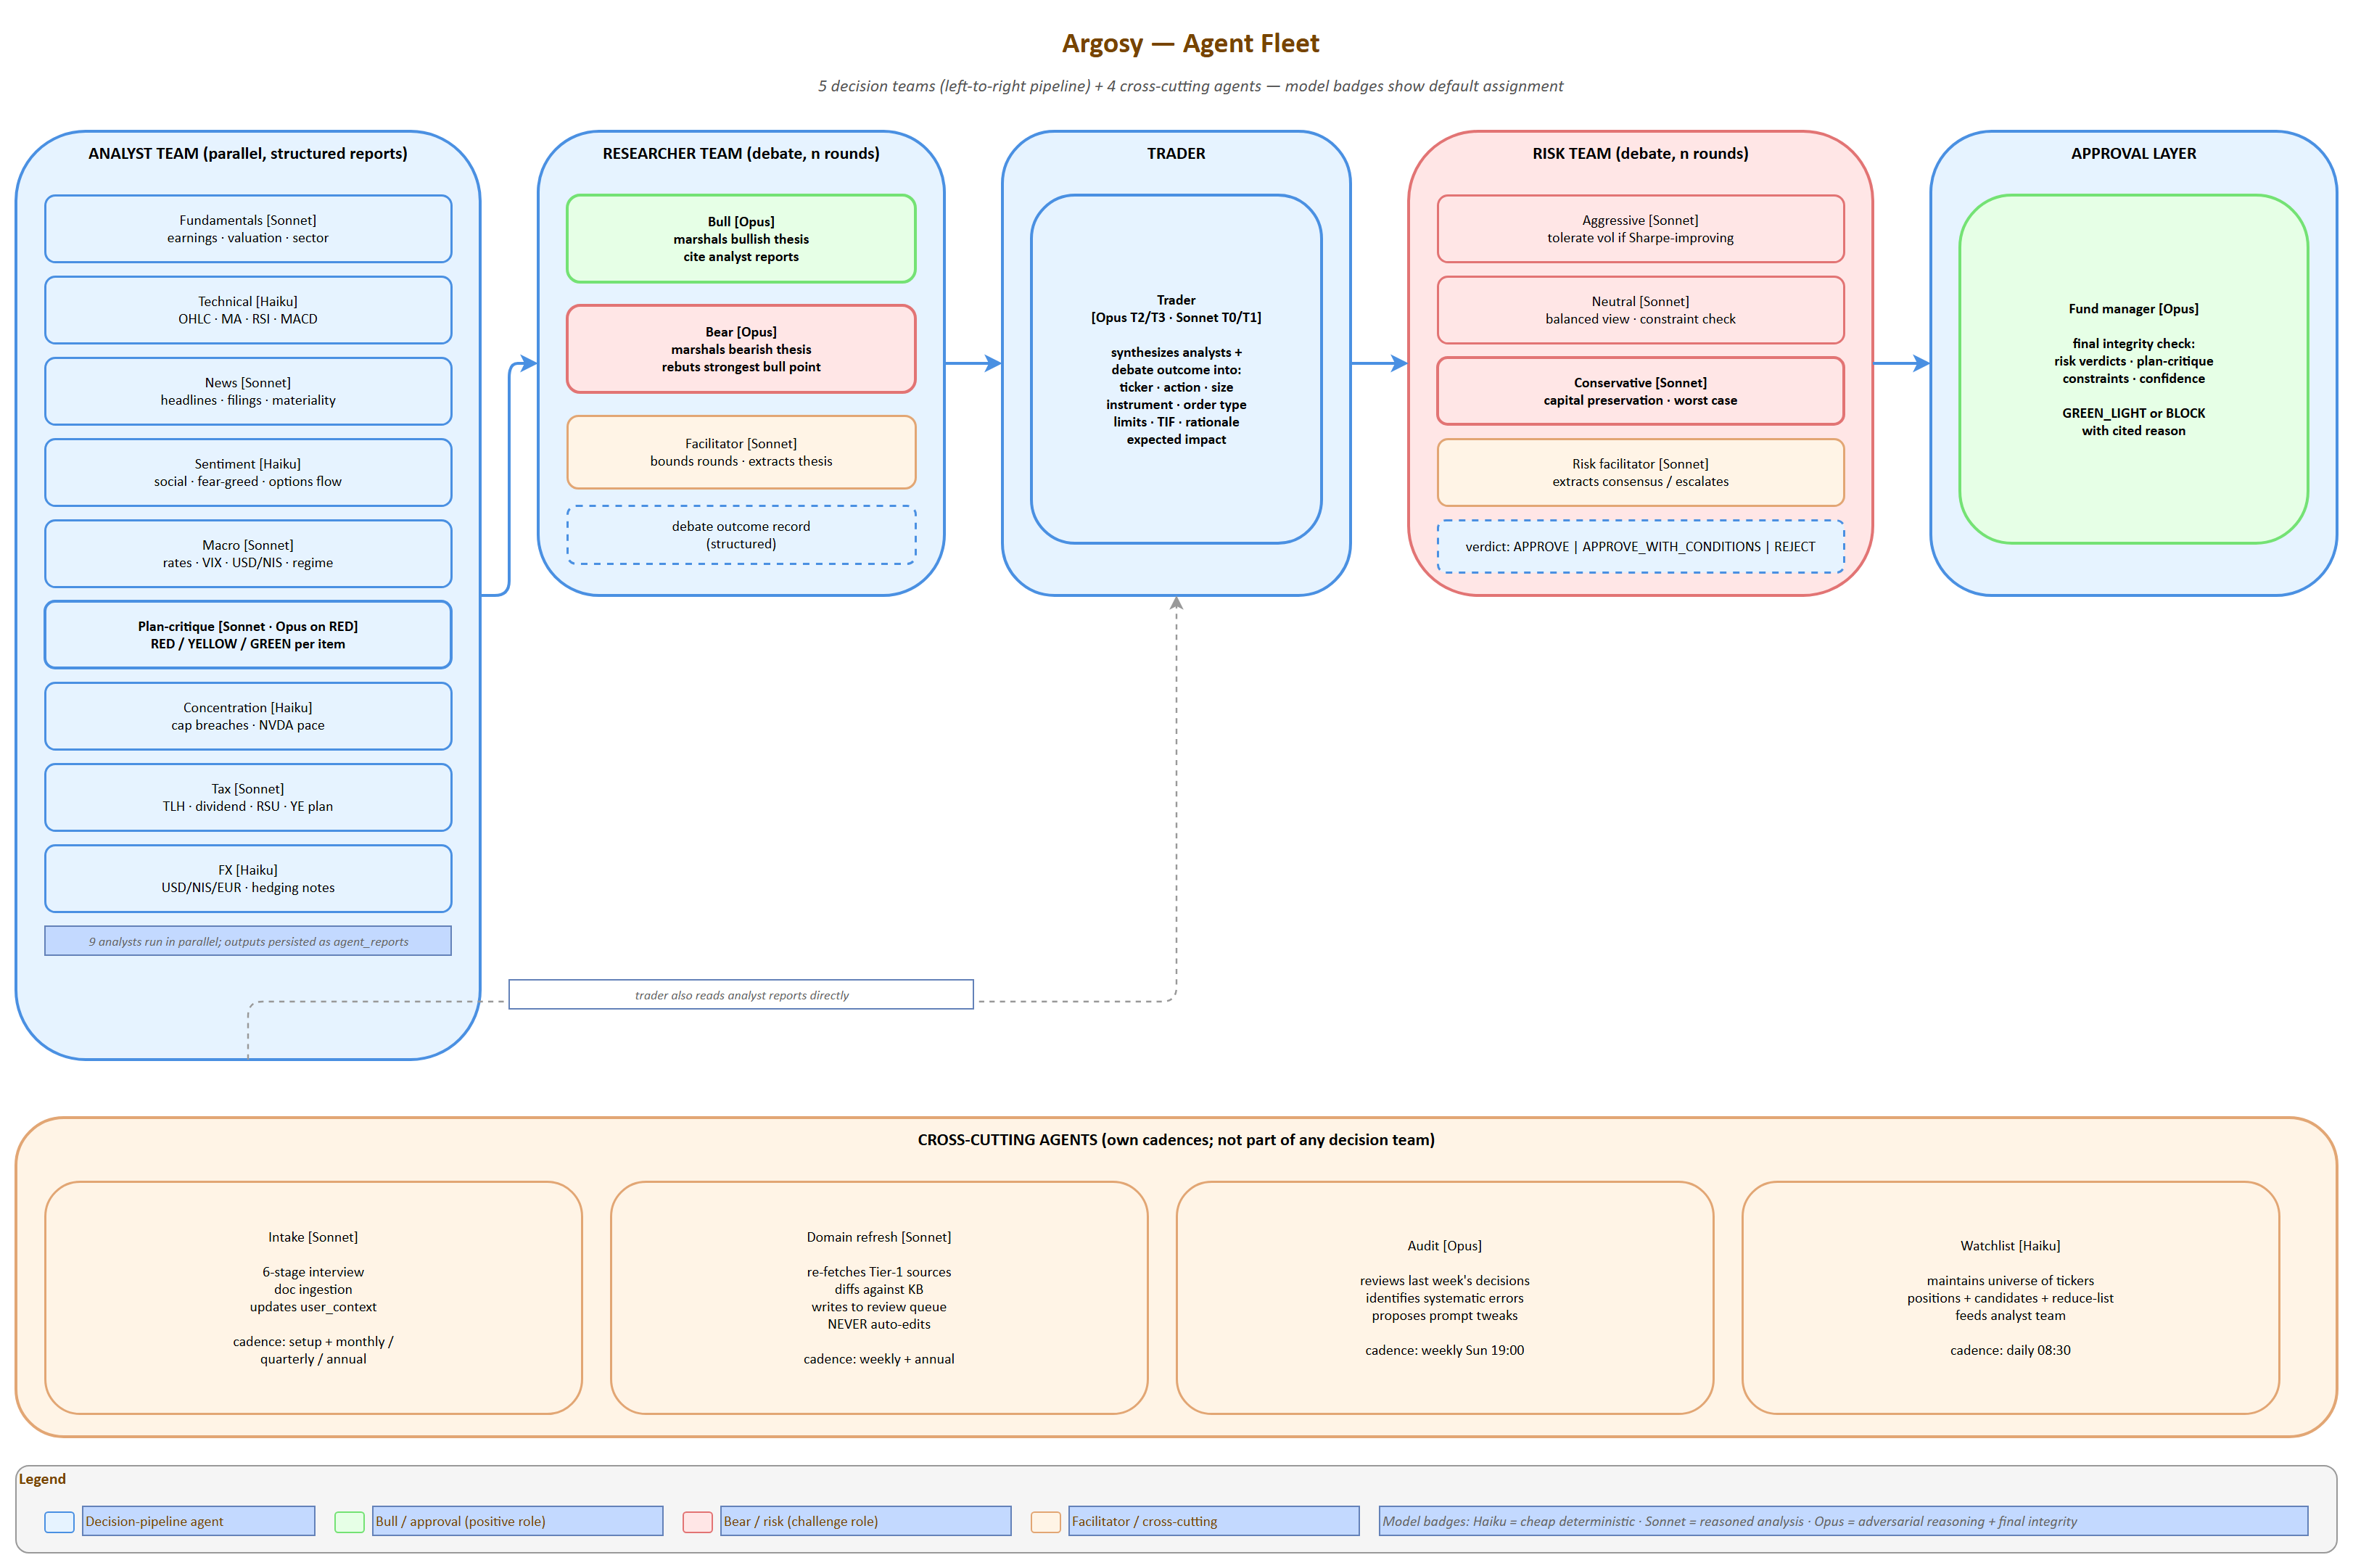
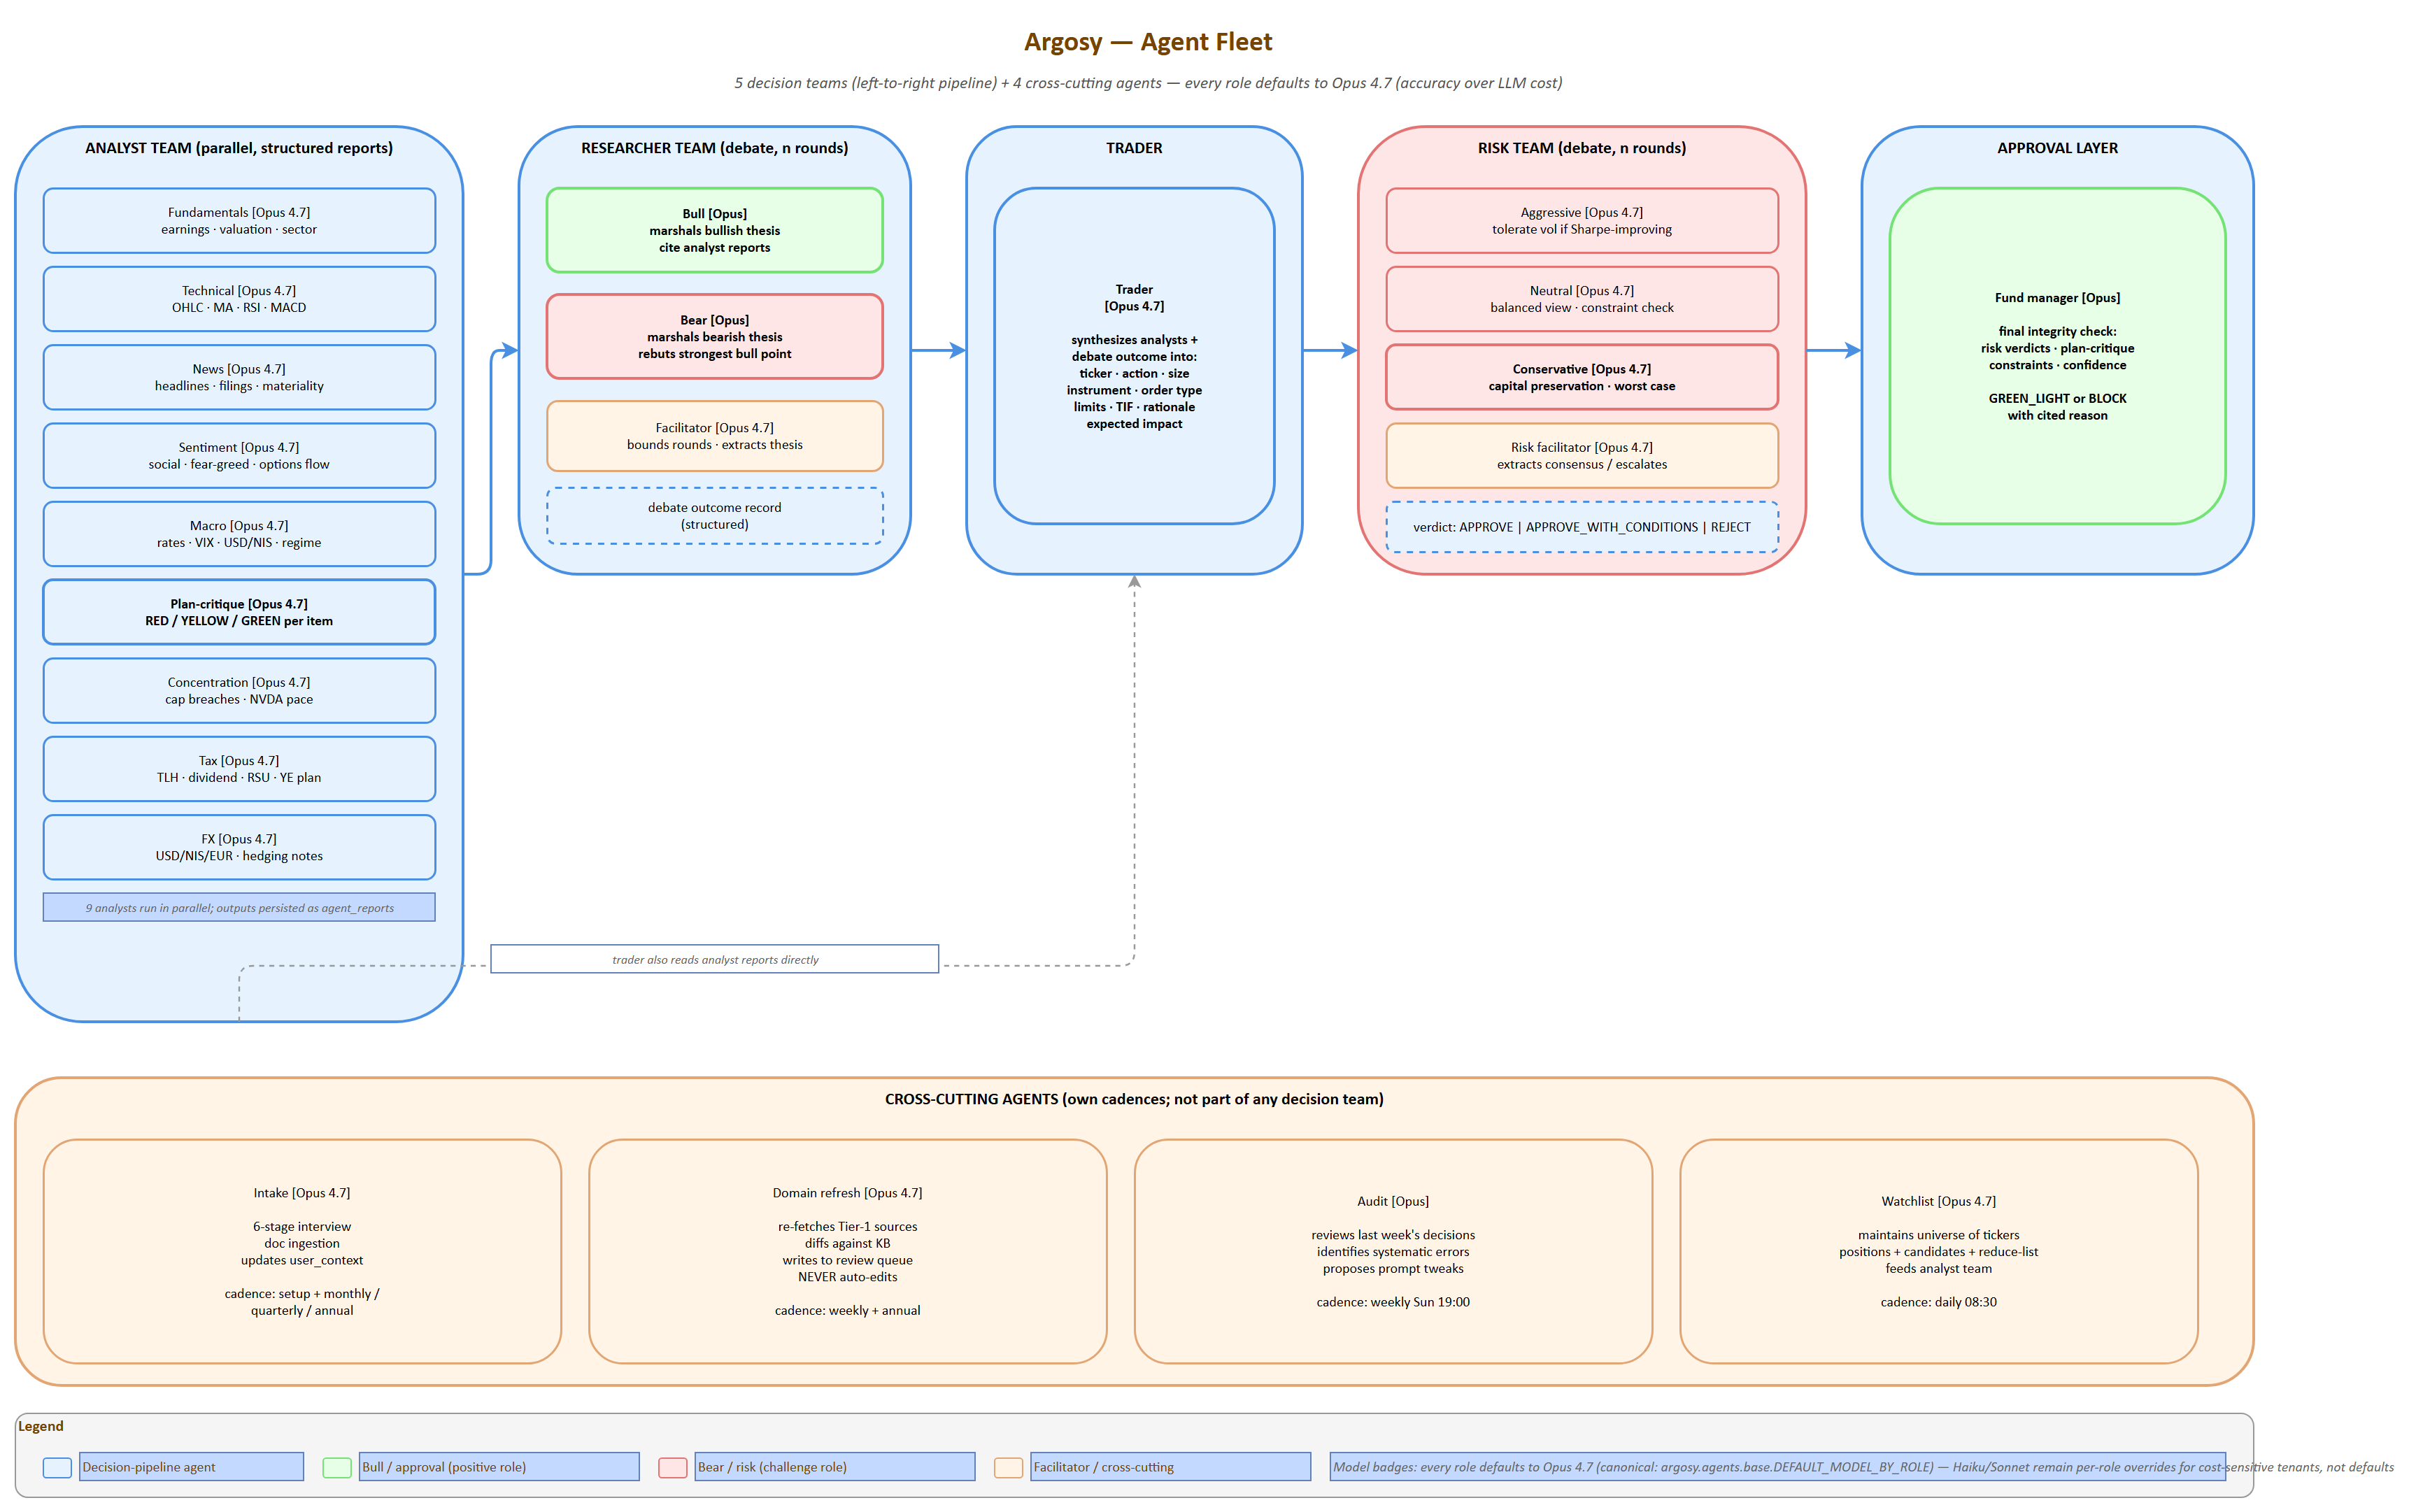
docs(sdd): sync model-assignment to the shipped all-Opus-4.7 fleet (§3.1/§3.6/§3.8 + 04 diagram)
DEFAULT_MODEL_BY_ROLE maps every role to claude-opus-4-7; the SDD tables + the
agent-fleet diagram still showed Sonnet/Haiku tiering. Update the §3.1 analyst table,
§3.2-3.6 team/cross-cutting tables, §3.7 cost rows, the §3.8 policy, the §0 novice
tour, and the 04-agent-fleet badges + legend to the current state: all roles default
to Opus 4.7 (accuracy over LLM cost), Sonnet/Haiku remain per-role overrides only.
PNG re-rendered via docs/tools/drawio_export.py.

diff --git a/docs/design/SDD.md b/docs/design/SDD.md
@@ -242,7 +242,7 @@ Argosy is two things glued together: an always-on background process and a dashb
 
 **The engine and its cadences** ([06-cadence-loops.png](diagrams/06-cadence-loops.png)) is the always-on Python orchestrator. Each cadence loop polls cheaply (read prices, scan news headlines, recompute concentration) and only invokes an LLM when a trigger fires. Background processes (`process_cooling`, daily backup, watchlist refresh, fill reconciliation) keep the rest of the system honest.
 
-**The agent fleet** ([04-agent-fleet.png](diagrams/04-agent-fleet.png)) is 5 decision teams (analysts → researchers → trader → risk → fund manager) plus several cross-cutting agents (intake, advisor, intake_extractor, domain_refresh, audit, watchlist, plan_distiller, plan_synthesizer, household_categorizer). Each agent has a default model assignment (Sonnet for most analysts / cross-cutting roles, Opus for adversarial researchers / trader / fund_manager / audit / plan_synthesizer) tuned to its role; see §3.8 for the canonical policy. Haiku is intentionally not a default for any role today (instruction-following ceiling on Argosy's structured prompts) but stays available as a per-role override for cost-sensitive tenants.
+**The agent fleet** ([04-agent-fleet.png](diagrams/04-agent-fleet.png)) is 5 decision teams (analysts → researchers → trader → risk → fund manager) plus several cross-cutting agents (intake, advisor, intake_extractor, domain_refresh, audit, watchlist, plan_distiller, plan_synthesizer, household_categorizer). Every role defaults to Opus 4.7 (the "accuracy over LLM cost" policy drove a fleet-wide upgrade); see §3.8 for the canonical policy. Sonnet and Haiku stay available as per-role overrides for cost-sensitive tenants but are not defaults for any role today.
 
 **Decision tiers** ([05-decision-tiers.png](diagrams/05-decision-tiers.png)) are the four review-depth grades. T0 is trader-only with rule-based preflight. T1 is 3 analysts plus a one-round debate plus one risk perspective. T2 runs the whole stack. T3 adds plan-critique sign-off, a 24h cooling-off, and a next-day re-check.
 
@@ -463,15 +463,15 @@ Run in parallel; produce structured reports written to state. Reports are persis
 
 | Agent | Knows | Outputs | Tools | Default model | Thinking budget | Citations |
 |---|---|---|---|---|---|---|
-| **Fundamentals** | Earnings, financials, valuation multiples, sector context | Structured fundamentals report (PE/PEG/EV-EBITDA, growth, balance sheet quality, fair-value estimate) | yfinance, SEC EDGAR | Sonnet | 0 | yes |
-| **Technical** | Price/volume, MA crossings, RSI, MACD, support/resistance | Indicator dashboard + signal classification (entry / hold / exit) | yfinance OHLC, ta-lib | Sonnet (was Haiku — see §3.8) | 0 | yes |
-| **News** | Headlines, filings, earnings calls, regulatory news on holdings + watchlist | Per-ticker news digest with materiality score | Finnhub, RSS, SEC EDGAR | Sonnet | 0 | yes |
-| **Sentiment** | Social/Reddit chatter, fear-greed, options flow imbalance | Sentiment regime per ticker; outlier alerts | Reddit (PRAW), Finnhub | Sonnet (was Haiku — see §3.8) | 0 | yes |
-| **Macro** | Rates, VIX, USD/NIS/EUR, oil, BoI/Fed actions, ISM/PMI | Regime classification (risk-on/risk-off; hard/soft landing) + drivers | FRED, Bank of Israel, OECD | Sonnet | 0 | yes |
-| **Plan-critique** | The imported plan + current portfolio state + domain knowledge | RED/YELLOW/GREEN list of plan items with evidence | Plan doc, state, domain KB | Sonnet (Opus on RED) | 0 | yes |
-| **Concentration** | Position sizes vs caps; sector & geography exposure; NVDA pace vs schedule | Breach/warning report; tranche proposals | Positions table | Sonnet (was Haiku — see §3.8) | 0 | yes |
-| **Tax** | Israeli tax + US treaty + estate exposure; lot-level data | TLH candidates, dividend-tax projections, RSU-vest tax, year-end planning | Domain KB + lots | Sonnet | 0 | yes |
-| **FX** | USD/NIS/EUR levels and recent trend; user's NIS-vs-USD exposure | FX-aware position sizing notes; hedging recommendations | FRED, Bank of Israel | Sonnet (was Haiku — see §3.8) | 0 | yes |
+| **Fundamentals** | Earnings, financials, valuation multiples, sector context | Structured fundamentals report (PE/PEG/EV-EBITDA, growth, balance sheet quality, fair-value estimate) | yfinance, SEC EDGAR | Opus 4.7 | 0 | yes |
+| **Technical** | Price/volume, MA crossings, RSI, MACD, support/resistance | Indicator dashboard + signal classification (entry / hold / exit) | yfinance OHLC, ta-lib | Opus 4.7 | 0 | yes |
+| **News** | Headlines, filings, earnings calls, regulatory news on holdings + watchlist | Per-ticker news digest with materiality score | Finnhub, RSS, SEC EDGAR | Opus 4.7 | 0 | yes |
+| **Sentiment** | Social/Reddit chatter, fear-greed, options flow imbalance | Sentiment regime per ticker; outlier alerts | Reddit (PRAW), Finnhub | Opus 4.7 | 0 | yes |
+| **Macro** | Rates, VIX, USD/NIS/EUR, oil, BoI/Fed actions, ISM/PMI | Regime classification (risk-on/risk-off; hard/soft landing) + drivers | FRED, Bank of Israel, OECD | Opus 4.7 | 0 | yes |
+| **Plan-critique** | The imported plan + current portfolio state + domain knowledge | RED/YELLOW/GREEN list of plan items with evidence | Plan doc, state, domain KB | Opus 4.7 | 0 | yes |
+| **Concentration** | Position sizes vs caps; sector & geography exposure; NVDA pace vs schedule | Breach/warning report; tranche proposals | Positions table | Opus 4.7 | 0 | yes |
+| **Tax** | Israeli tax + US treaty + estate exposure; lot-level data | TLH candidates, dividend-tax projections, RSU-vest tax, year-end planning | Domain KB + lots | Opus 4.7 | 0 | yes |
+| **FX** | USD/NIS/EUR levels and recent trend; user's NIS-vs-USD exposure | FX-aware position sizing notes; hedging recommendations | FRED, Bank of Israel | Opus 4.7 | 0 | yes |
 | **Plan coverage** (`PlanCoverageAnalyst`) | Distillate + portfolio snapshot; the 18 canonical section_ids | Baseline `Section` drafts for canonical sections the user's plan didn't author (e.g. healthcare, insurance, cross-border forms calendar); `unfilled_section_ids` list for sections it intentionally skipped (IPS, client goals, capital sufficiency) | `argosy/quality/canonical_sections.py` | Opus | 4000 | yes (`agent_baseline` kind) |
 | **Withdrawal sequencer** (`WithdrawalSequencerAgent`) | Portfolio snapshot + positions + household budget + plan markdown | FI-bridge waterfall (`fi_bridge: list[BridgeRung]`) + year-by-year `withdrawal_schedule: list[WithdrawalYearRow]` — encodes the IL pension stack (keren_hishtalmut → kupot_gemel → executive_insurance → portfolio_drawdown → pensia) | `argosy/agents/plan_distiller_types.py` typed fields | Opus | 4000 | yes |
 | **Equity comp** (`EquityCompAnalystAgent`) | `identity_yaml.rsu_vest_schedule` (active grants + quarterly vests) + portfolio positions + tax payload + FX + base salary USD | 3-scenario RSU projection (`known_grants_only` / `conservative_decay` at 55% of base / `optimistic_flat` at 90% of base) with per-year `YearVestRow` (gross_shares, gross_usd, gross_nis, net_nis, retention_pct, confidence, source); separates contractual vesting from discretionary refresh grants; NVDA-sell-on-vest policy (default defer with cap-band rebalance); FI-date sensitivity per scenario; advisor intake questions when RSU portal pages 2-4 missing | `argosy/agents/equity_comp_analyst_types.py` typed fields with Pydantic `field_validator` coercion of LLM structured citations/questions back to strings | Opus | 4000 | yes |
@@ -486,7 +486,7 @@ Adversarial debate, n rounds, facilitated. Produces a structured debate outcome 
 |---|---|---|---|---|
 | **Bull** | Marshals bullish thesis from analyst reports; argues for adding/holding | Opus | 4000 | yes |
 | **Bear** | Marshals bearish thesis; argues for trimming/selling | Opus | 4000 | yes |
-| **Facilitator** | Bounds the debate; extracts winning thesis to structured record | Sonnet | 0 | no |
+| **Facilitator** | Bounds the debate; extracts winning thesis to structured record | Opus 4.7 | 0 | no |
 
 ### 3.3 Trader
 
@@ -494,7 +494,7 @@ Synthesizes analyst reports + researcher debate outcome into a concrete proposal
 
 | Agent | Role | Default model | Thinking budget | Citations |
 |---|---|---|---|---|
-| **Trader** | Produces concrete proposal (action, size, instrument, limits, time-in-force) | Opus for T2/T3; Sonnet for T0/T1 | 8000 | yes |
+| **Trader** | Produces concrete proposal (action, size, instrument, limits, time-in-force) | Opus 4.7 | 8000 | yes |
 
 ### 3.4 Risk Team
 
@@ -502,10 +502,10 @@ Adversarial debate over the proposed action; n rounds, facilitated.
 
 | Agent | Role | Default model | Thinking budget | Citations |
 |---|---|---|---|---|
-| **Aggressive risk** | Tolerant of vol/drawdown if Sharpe-improving | Sonnet | 0 | no |
-| **Neutral risk** | Balanced perspective | Sonnet | 0 | no |
-| **Conservative risk** | Capital-preservation-first; flags worst-case path | Sonnet | 0 | no |
-| **Risk facilitator** | Extracts consensus or escalates conflict | Sonnet | 0 | no |
+| **Aggressive risk** | Tolerant of vol/drawdown if Sharpe-improving | Opus 4.7 | 0 | no |
+| **Neutral risk** | Balanced perspective | Opus 4.7 | 0 | no |
+| **Conservative risk** | Capital-preservation-first; flags worst-case path | Opus 4.7 | 0 | no |
+| **Risk facilitator** | Extracts consensus or escalates conflict | Opus 4.7 | 0 | no |
 
 ### 3.5 Approval Layer
 
@@ -519,17 +519,17 @@ Run on their own cadences; not part of any decision team.
 
 | Agent | Role | Cadence | Default model | Thinking budget | Citations |
 |---|---|---|---|---|---|
-| **Intake** (`IntakeAgent`) | LLM-led conversational interview; ingests docs; updates `user_context` | One-shot + monthly/quarterly/annual rhythms | Sonnet | 0 | no |
-| **Intake extractor** (`IntakeExtractorAgent`) | Single-pass markdown extractor for user-supplied plan/intake docs; populates `user_context` from a self-described file. Citations not required (the source IS the user's doc). | On upload | Sonnet | 0 | yes |
-| **Advisor** (`AdvisorAgent`) | Subclass of Intake with `gap_driven` / `user_driven` modes; backs the persistent `/advisor` panel and the home-brief card. emits an optional `amendment` field in its turn output (`AmendmentIntent`) when the latest user message asks for a structural plan change; the route layer routes through `argosy.orchestrator.flows.plan_amendment` (§6.13). The route only enables the LLM amendment-classification block when `has_current_plan=True`. See §6.5. | Per-turn (user-initiated) | Sonnet | 0 | no |
-| **Domain refresh** (`DomainRefreshAgent`) | Re-verifies domain knowledge against sources; queues changes for human review | Weekly | Sonnet | 0 | no |
+| **Intake** (`IntakeAgent`) | LLM-led conversational interview; ingests docs; updates `user_context` | One-shot + monthly/quarterly/annual rhythms | Opus 4.7 | 0 | no |
+| **Intake extractor** (`IntakeExtractorAgent`) | Single-pass markdown extractor for user-supplied plan/intake docs; populates `user_context` from a self-described file. Citations not required (the source IS the user's doc). | On upload | Opus 4.7 | 0 | yes |
+| **Advisor** (`AdvisorAgent`) | Subclass of Intake with `gap_driven` / `user_driven` modes; backs the persistent `/advisor` panel and the home-brief card. emits an optional `amendment` field in its turn output (`AmendmentIntent`) when the latest user message asks for a structural plan change; the route layer routes through `argosy.orchestrator.flows.plan_amendment` (§6.13). The route only enables the LLM amendment-classification block when `has_current_plan=True`. See §6.5. | Per-turn (user-initiated) | Opus 4.7 | 0 | no |
+| **Domain refresh** (`DomainRefreshAgent`) | Re-verifies domain knowledge against sources; queues changes for human review | Weekly | Opus 4.7 | 0 | no |
 | **Audit** (`AuditAgent`) | Reviews last week's decisions; identifies systematic errors; proposes prompt tweaks | Weekly | Opus | 4000 | yes |
-| **Plan critique** (`PlanCritiqueAgent`) | Standalone critique agent; runs in monthly_cycle and on plan-import. Listed both here (cross-cutting) and in §3.1 (analyst-team plan_critique role). | Monthly + on import | Sonnet (Opus on RED) | 0 | yes |
-| **Plan distiller** (`PlanDistillerAgent`) | Extracts a durable structured distillate from a user-imported plan markdown. See §6.10. | One-shot on import + on baseline file change | Sonnet | 0 | yes |
+| **Plan critique** (`PlanCritiqueAgent`) | Standalone critique agent; runs in monthly_cycle and on plan-import. Listed both here (cross-cutting) and in §3.1 (analyst-team plan_critique role). | Monthly + on import | Opus 4.7 | 0 | yes |
+| **Plan distiller** (`PlanDistillerAgent`) | Extracts a durable structured distillate from a user-imported plan markdown. See §6.10. | One-shot on import + on baseline file change | Opus 4.7 | 0 | yes |
 | **Plan synthesizer** (`PlanSynthesizerAgent`) | Phase 3 of plan_synthesis_flow and the worker for plan-amendment-chat Medium/Large tiers — produces the three HorizonSection drafts plus the top-level `sections: list[Section]` (Phase 3 canonical evidence-bearing shape). See §6.11, §6.13. | Monthly + quarterly + annual + on user check-in + on amendment | Opus | 8000 | yes |
 | **Plan language rewriter** (`PlanLanguageRewriter`) | The structured `PlanSynthesisOutput` from the synthesizer. Runs between Phase 3 and the speculation-cap enforcer; translates prose fields (posture, rationale, theme/action/target labels and details) from internal agent phrasing to household-readable English while preserving every structured field (numeric values, units, dates, item_ids, `SectionEvidence` subtree, deltas, speculative candidates, `inputs` provenance) bit-for-bit. Validator at `argosy/quality/rewriter_invariants.py::validate_rewriter_invariants` enforces the preservation contract: structural drift hard-aborts; residual prose drift logs a warning and ships the mostly-scrubbed output (defense-in-depth: the `/accept` gate catches residual). | Per plan_synthesis_flow run | Opus | 4000 | no |
-| **Watchlist** (`WatchlistAgent`) | Maintains the universe of tickers tracked (positions + candidates + reduce-list) | Daily | Sonnet (was Haiku; bumped — see §3.8) | 0 | no |
-| **Household categorizer** (`HouseholdCategorizerAgent`) | Batched LLM categorization for household-budget transactions. Input: list of normalized merchant rows + the taxonomy slug list. Output: per-row `(category_slug, confidence, rationale)`. Confidence < 0.85 → `uncategorized` (caller writes `expense_review_queue` row). Cached LLM verdicts go to `merchant_category_cache` so subsequent runs short-circuit. | On expense ingest (one batched call per ~50 uncached merchants) | Sonnet | 0 | no |
+| **Watchlist** (`WatchlistAgent`) | Maintains the universe of tickers tracked (positions + candidates + reduce-list) | Daily | Opus 4.7 | 0 | no |
+| **Household categorizer** (`HouseholdCategorizerAgent`) | Batched LLM categorization for household-budget transactions. Input: list of normalized merchant rows + the taxonomy slug list. Output: per-row `(category_slug, confidence, rationale)`. Confidence < 0.85 → `uncategorized` (caller writes `expense_review_queue` row). Cached LLM verdicts go to `merchant_category_cache` so subsequent runs short-circuit. | On expense ingest (one batched call per ~50 uncached merchants) | Opus 4.7 | 0 | no |
 
 > **Telemetry caveat.** The `Thinking budget` and `Citations` columns above describe per-role *configuration* (sourced from `DEFAULT_THINKING_BUDGET_BY_ROLE` and `DEFAULT_CITATIONS_BY_ROLE` in `argosy/agents/base.py`). On the `claude_code` backend (Argosy's default per `argosy.toml`) The system backports most of the behaviour from the `api_key` path:
 >
@@ -573,7 +573,7 @@ against per-lot Section 102 windows.
 
 | Path | LLM shape | Estimated cost |
 |---|---|---|
-| Plan distillation (§6.10) | Single PlanDistillerAgent call (Sonnet) | ~$0.30 |
+| Plan distillation (§6.10) | Single PlanDistillerAgent call (Opus 4.7) | ~$0.30 |
 | Full plan synthesis (§6.11; monthly_cycle / quarterly / annual / `/api/advisor/check-in`) | 9 analysts (parallel) + 3 horizon debates (parallel) + 1 synthesizer (Opus) + 3 risk perspectives + 1 fund-manager | ~$5–8 |
 | Amendment chat — small (§6.13) | None — applies advisor-emitted Delta inline | $0 marginal (advisor turn cost already paid) |
 | Amendment chat — medium (§6.13) | 1 PlanSynthesizerAgent call (Opus) only | ~$0.50 |
@@ -587,10 +587,9 @@ Default model per agent role is configurable; user can override at any layer.
 
 **Current defaults** (canonical source: `argosy.agents.base.DEFAULT_MODEL_BY_ROLE`):
 
-- **Sonnet** (`claude-sonnet-4-6`) — every analyst (fundamentals, technical, news, sentiment, macro, concentration, tax, fx), plan-critique, intake / intake_extractor, advisor (subclass of intake), researcher_facilitator, all three risk_officer perspectives, risk_facilitator, plan_distiller, domain_refresh, watchlist, household_categorizer.
-- **Opus** (`claude-opus-4-7`) — bull_researcher, bear_researcher (adversarial debate), trader (synthesis under contradiction), fund_manager (final integrity check), audit (weekly post-mortem), plan_synthesizer (monthly/amendment Phase 3).
+- **Opus** (`claude-opus-4-7`) — **every role.** `DEFAULT_MODEL_BY_ROLE` maps all roles (analysts, researcher/risk debate, trader, fund_manager, plan_synthesizer, audit, all cross-cutting agents, and the living-plan owner/dialogue agents) to Opus 4.7. The whole-artifact reader and the codex numeric gate run on an independent cross-model reviewer (GPT-5 via the codex tandem), not a Claude tier.
 
-**Why Haiku is no longer a default.** The original SDD policy slotted Haiku into deterministic formatting roles (technical, sentiment, watchlist, concentration, fx). In practice, Argosy's prompts are heavily structured (multi-question batched intake, citation-required analysts, JSON-schema-constrained outputs). Haiku's instruction-following ceiling could not reliably (a) honor "do not re-ask answered fields" given an explicit ALREADY-ANSWERED list, (b) emit yaml_patch entries that match the canonical key shape, (c) hold the batched-question structure without drift. Sonnet halves the number of turns in practice despite being 2–3× slower per turn, and the "accuracy over LLM cost" policy (memory: `feedback_accuracy_over_cost.md`) explicitly prefers it. Override to Haiku is still possible per-role via `agent_settings.yaml` for cost-sensitive tenants — the pricing entry is preserved in `APPROX_PRICING_USD_PER_MTOK` so historical agent_reports rows still cost-track correctly.
+**Why neither Haiku nor Sonnet is a default.** The original policy slotted Haiku into deterministic formatting roles (technical, sentiment, watchlist, concentration, fx) and Sonnet into most analysts. In practice, Argosy's prompts are heavily structured (multi-question batched intake, citation-required analysts, JSON-schema-constrained outputs) and the downstream consequence of a wrong figure is large (it feeds the plan, the FI date, and the concentration cap). Haiku's instruction-following ceiling could not reliably hold those structures; and under the binding "accuracy over LLM cost" policy (memory: `feedback_accuracy_over_cost.md`) the fleet was upgraded the rest of the way to Opus 4.7 — accuracy and instruction-following over per-token cost. Sonnet/Haiku overrides remain possible per-role via `agent_settings.yaml` for cost-sensitive tenants; the pricing entries are preserved in `APPROX_PRICING_USD_PER_MTOK` so historical agent_reports rows still cost-track correctly.
 
 Set `models.override: {all: opus}` in `agent_settings.yaml` for quality-first regardless of cost; or override per-role.
 
@@ -1086,7 +1085,7 @@ current state.
 
 1. User uploads `Jacobs_Wealth_Plan.md` via `/api/intake/upload` — the
  row lands in `plan_versions` with `role='baseline'`.
-2. The intake route asynchronously calls `PlanDistillerAgent` (Sonnet,
+2. The intake route asynchronously calls `PlanDistillerAgent` (Opus 4.7,
  ~$0.30) and writes `distillate_json` + `distillate_rendered` +
  `source_hash` + `distilled_at` on the same row. Failure of distillation
  is non-fatal — the upload still succeeds; the user can retry via the
@@ -2354,7 +2353,7 @@ sequenceDiagram
  - `permission_mode="bypassPermissions"` silences the SDK's interactive permission flow (which otherwise hangs in a headless server context).
  - Combined: the model can request a tool, but the SDK refuses without prompting; the model proceeds to answer without it.
 
-5. **Cost shape per turn:** ~3 input tokens (the user's accumulated answers are tiny relative to the system prompt + schema) + 500-1500 output tokens for the structured response. ~$0.01 per turn at Sonnet rates.
+5. **Cost shape per turn:** ~3 input tokens (the user's accumulated answers are tiny relative to the system prompt + schema) + 500-1500 output tokens for the structured response. ~$0.04 per turn at Opus 4.7 rates.
 
 6. **Why each turn is a fresh subprocess:** simplicity and crash-isolation. A long-lived `claude.exe` would be cheaper but harder to reason about across restart, kill switch, and per-tenant isolation. The cost difference (~500 ms subprocess startup × number of turns) is negligible relative to the LLM call latency.
 